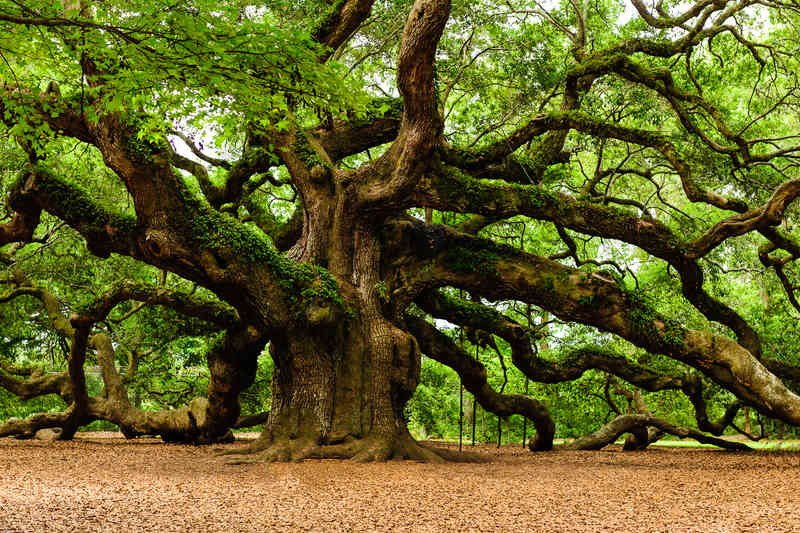
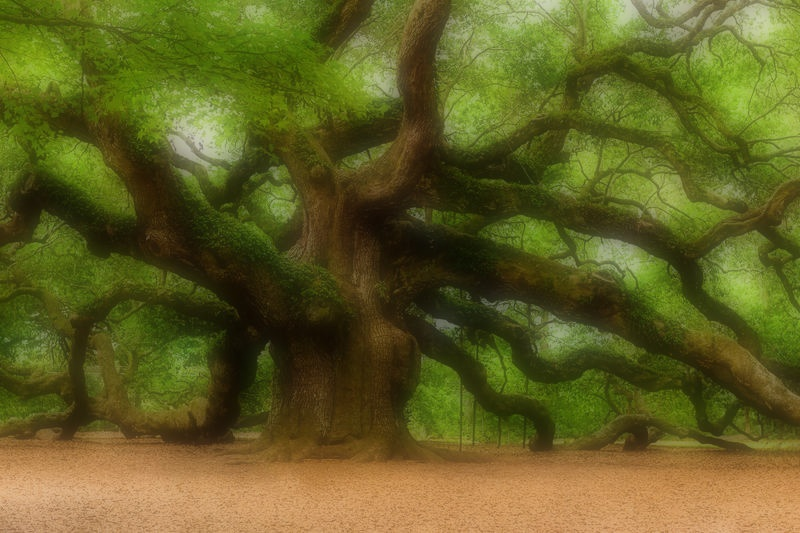
Updating background image quality

diff --git a/css/stylish-portfolio.css b/css/stylish-portfolio.css
@@ -152,17 +152,46 @@ hr.small {
 
 /* Header */
 
-.header {
-  display: table;
-  position: relative;
-  width: 100%;
-  height: 100%;
-  background: url(../img/bg.jpg) no-repeat center center scroll;
-  -webkit-background-size: cover;
-  -moz-background-size: cover;
-  background-size: cover;
-  -o-background-size: cover;
-  position: relative;
+@media (max-width: 500px){
+  .header {
+    display: table;
+    position: relative;
+    width: 100%;
+    height: 100%;
+    background: url(../images/bg-500_small.jpg) no-repeat center center scroll;
+    -webkit-background-size: cover;
+    -moz-background-size: cover;
+    background-size: cover;
+    -o-background-size: cover;
+  }
+}
+
+@media (min-width: 501px) and (max-width: 1599px){
+  .header {
+    display: table;
+    position: relative;
+    width: 100%;
+    height: 100%;
+    background: url(../images/bg-800_medium.jpg) no-repeat center center scroll;
+    -webkit-background-size: cover;
+    -moz-background-size: cover;
+    background-size: cover;
+    -o-background-size: cover;
+  }
+}
+
+@media (min-width: 1600px){
+  .header {
+    display: table;
+    position: relative;
+    width: 100%;
+    height: 100%;
+    background: url(../images/bg-1600_large.jpg) no-repeat center center scroll;
+    -webkit-background-size: cover;
+    -moz-background-size: cover;
+    background-size: cover;
+    -o-background-size: cover;
+  }
 }
 
 /* About */
